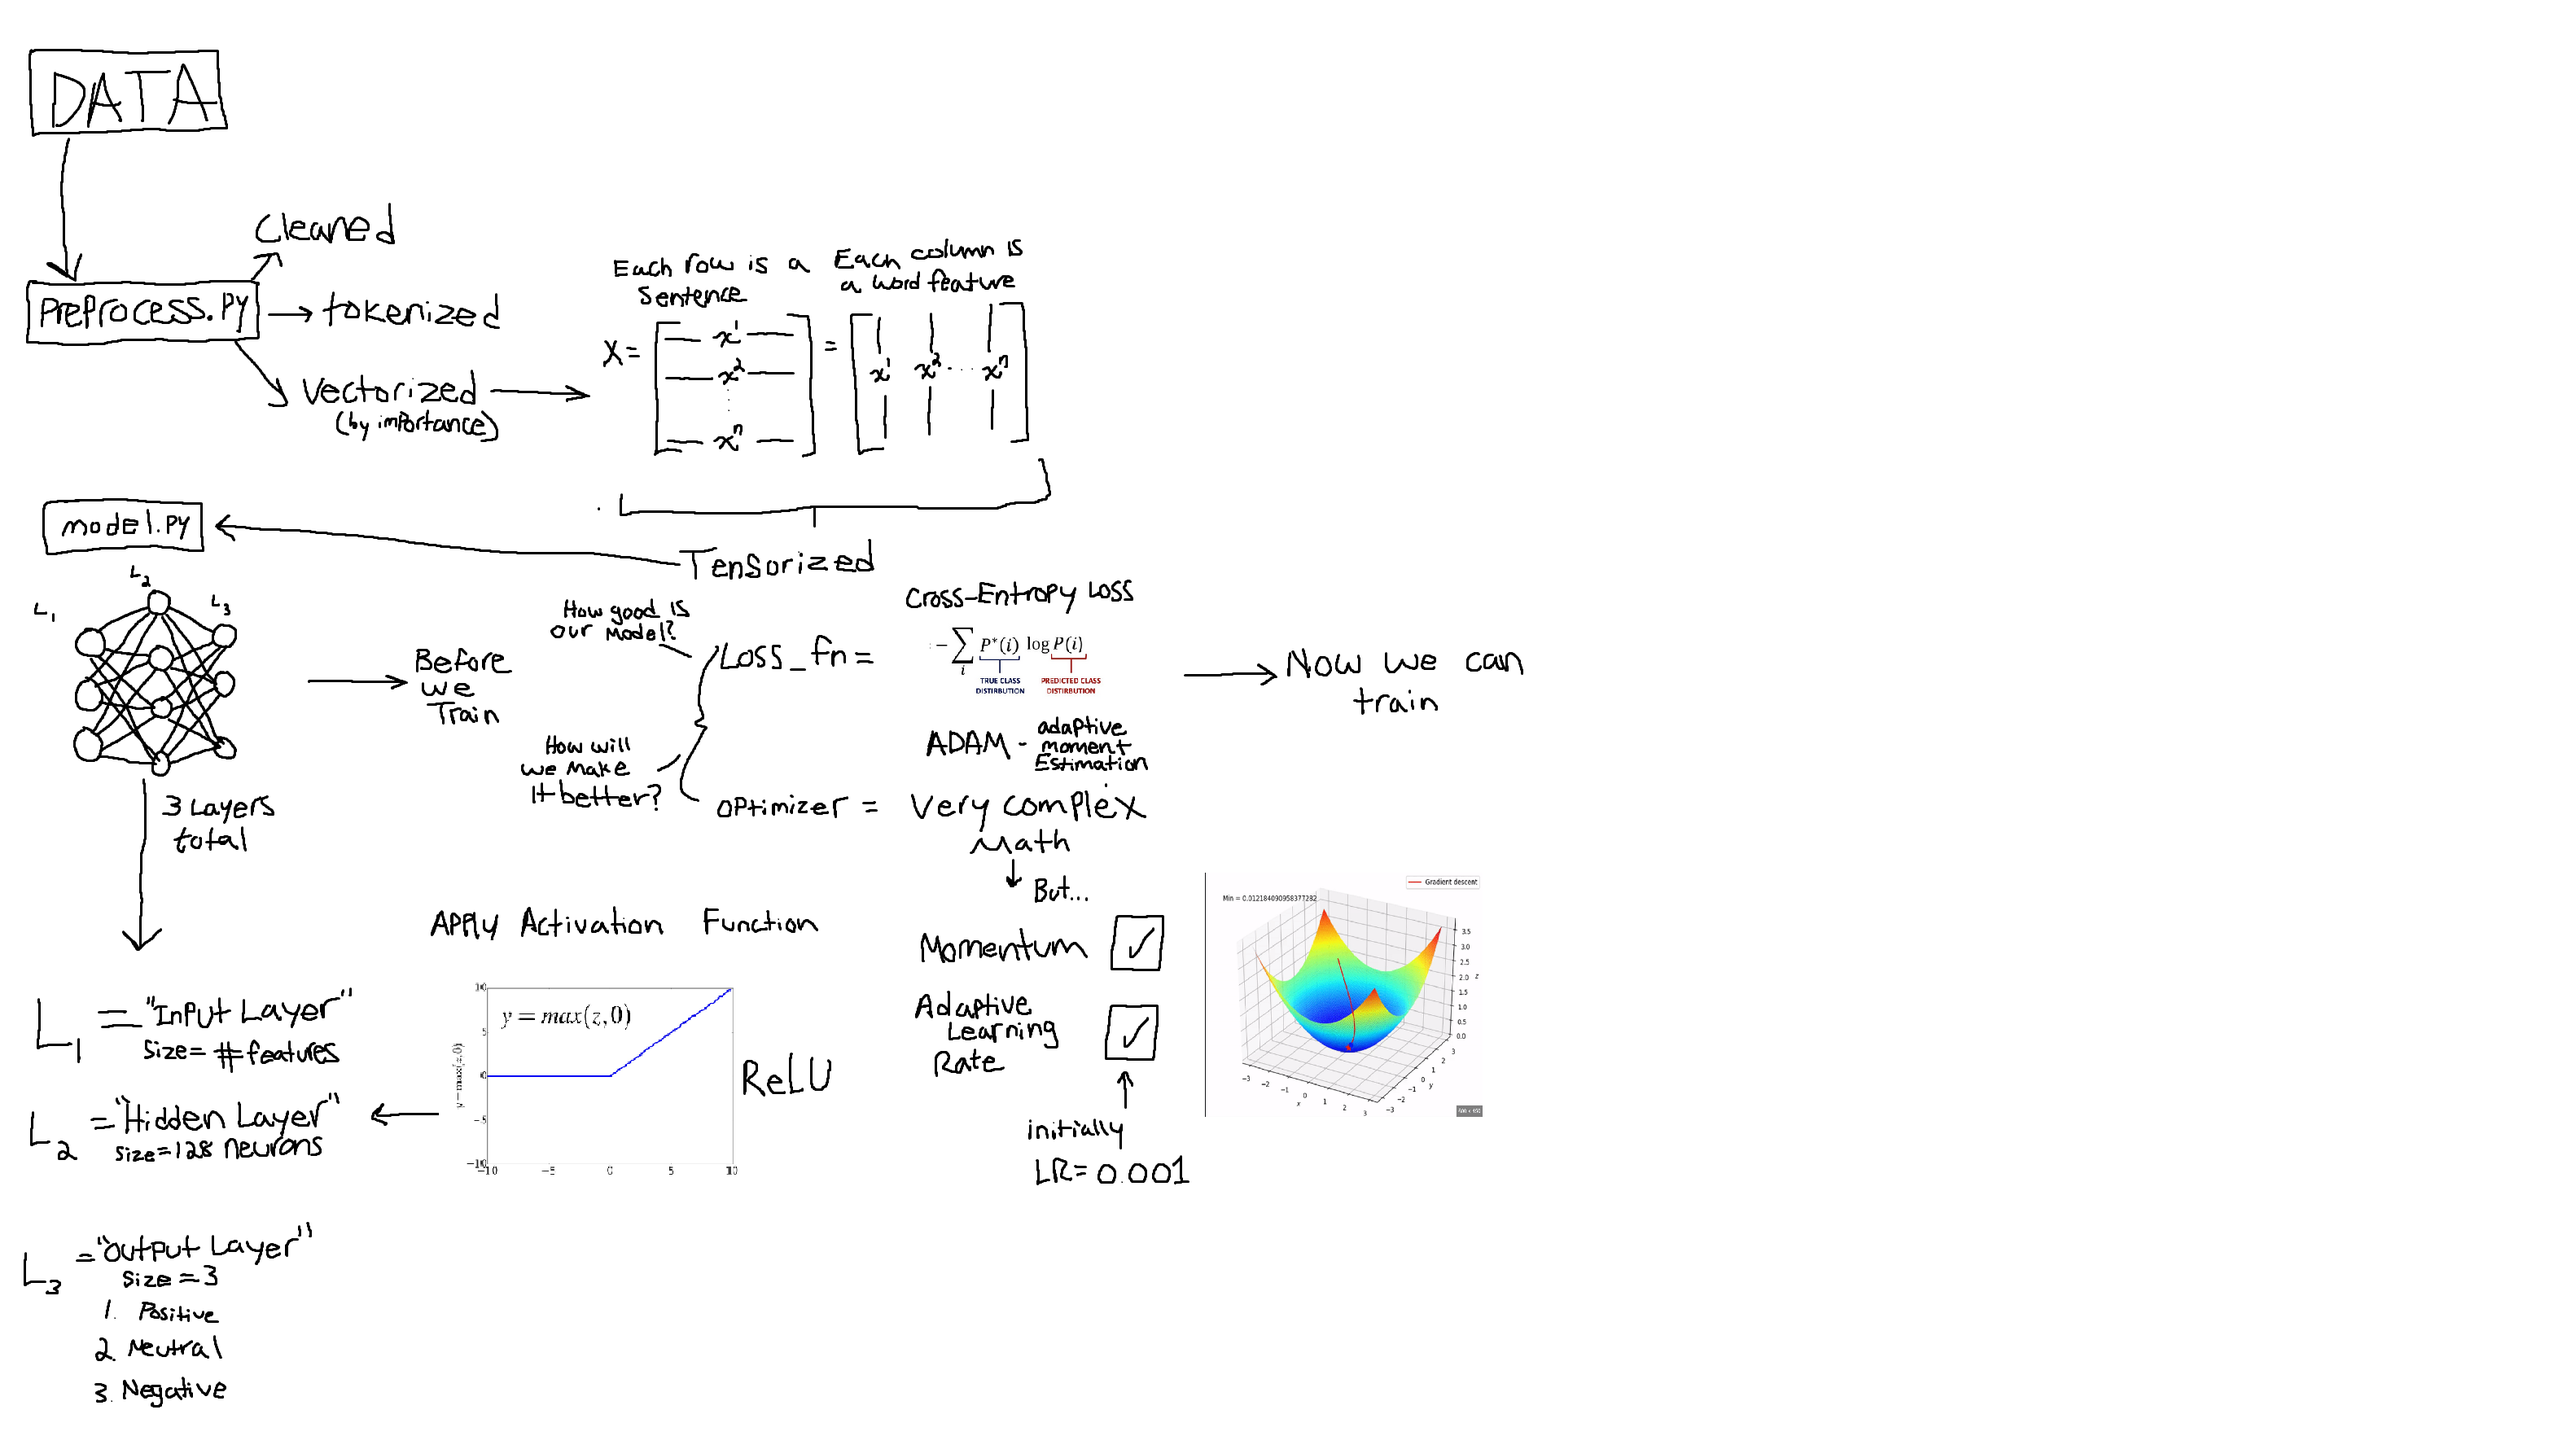
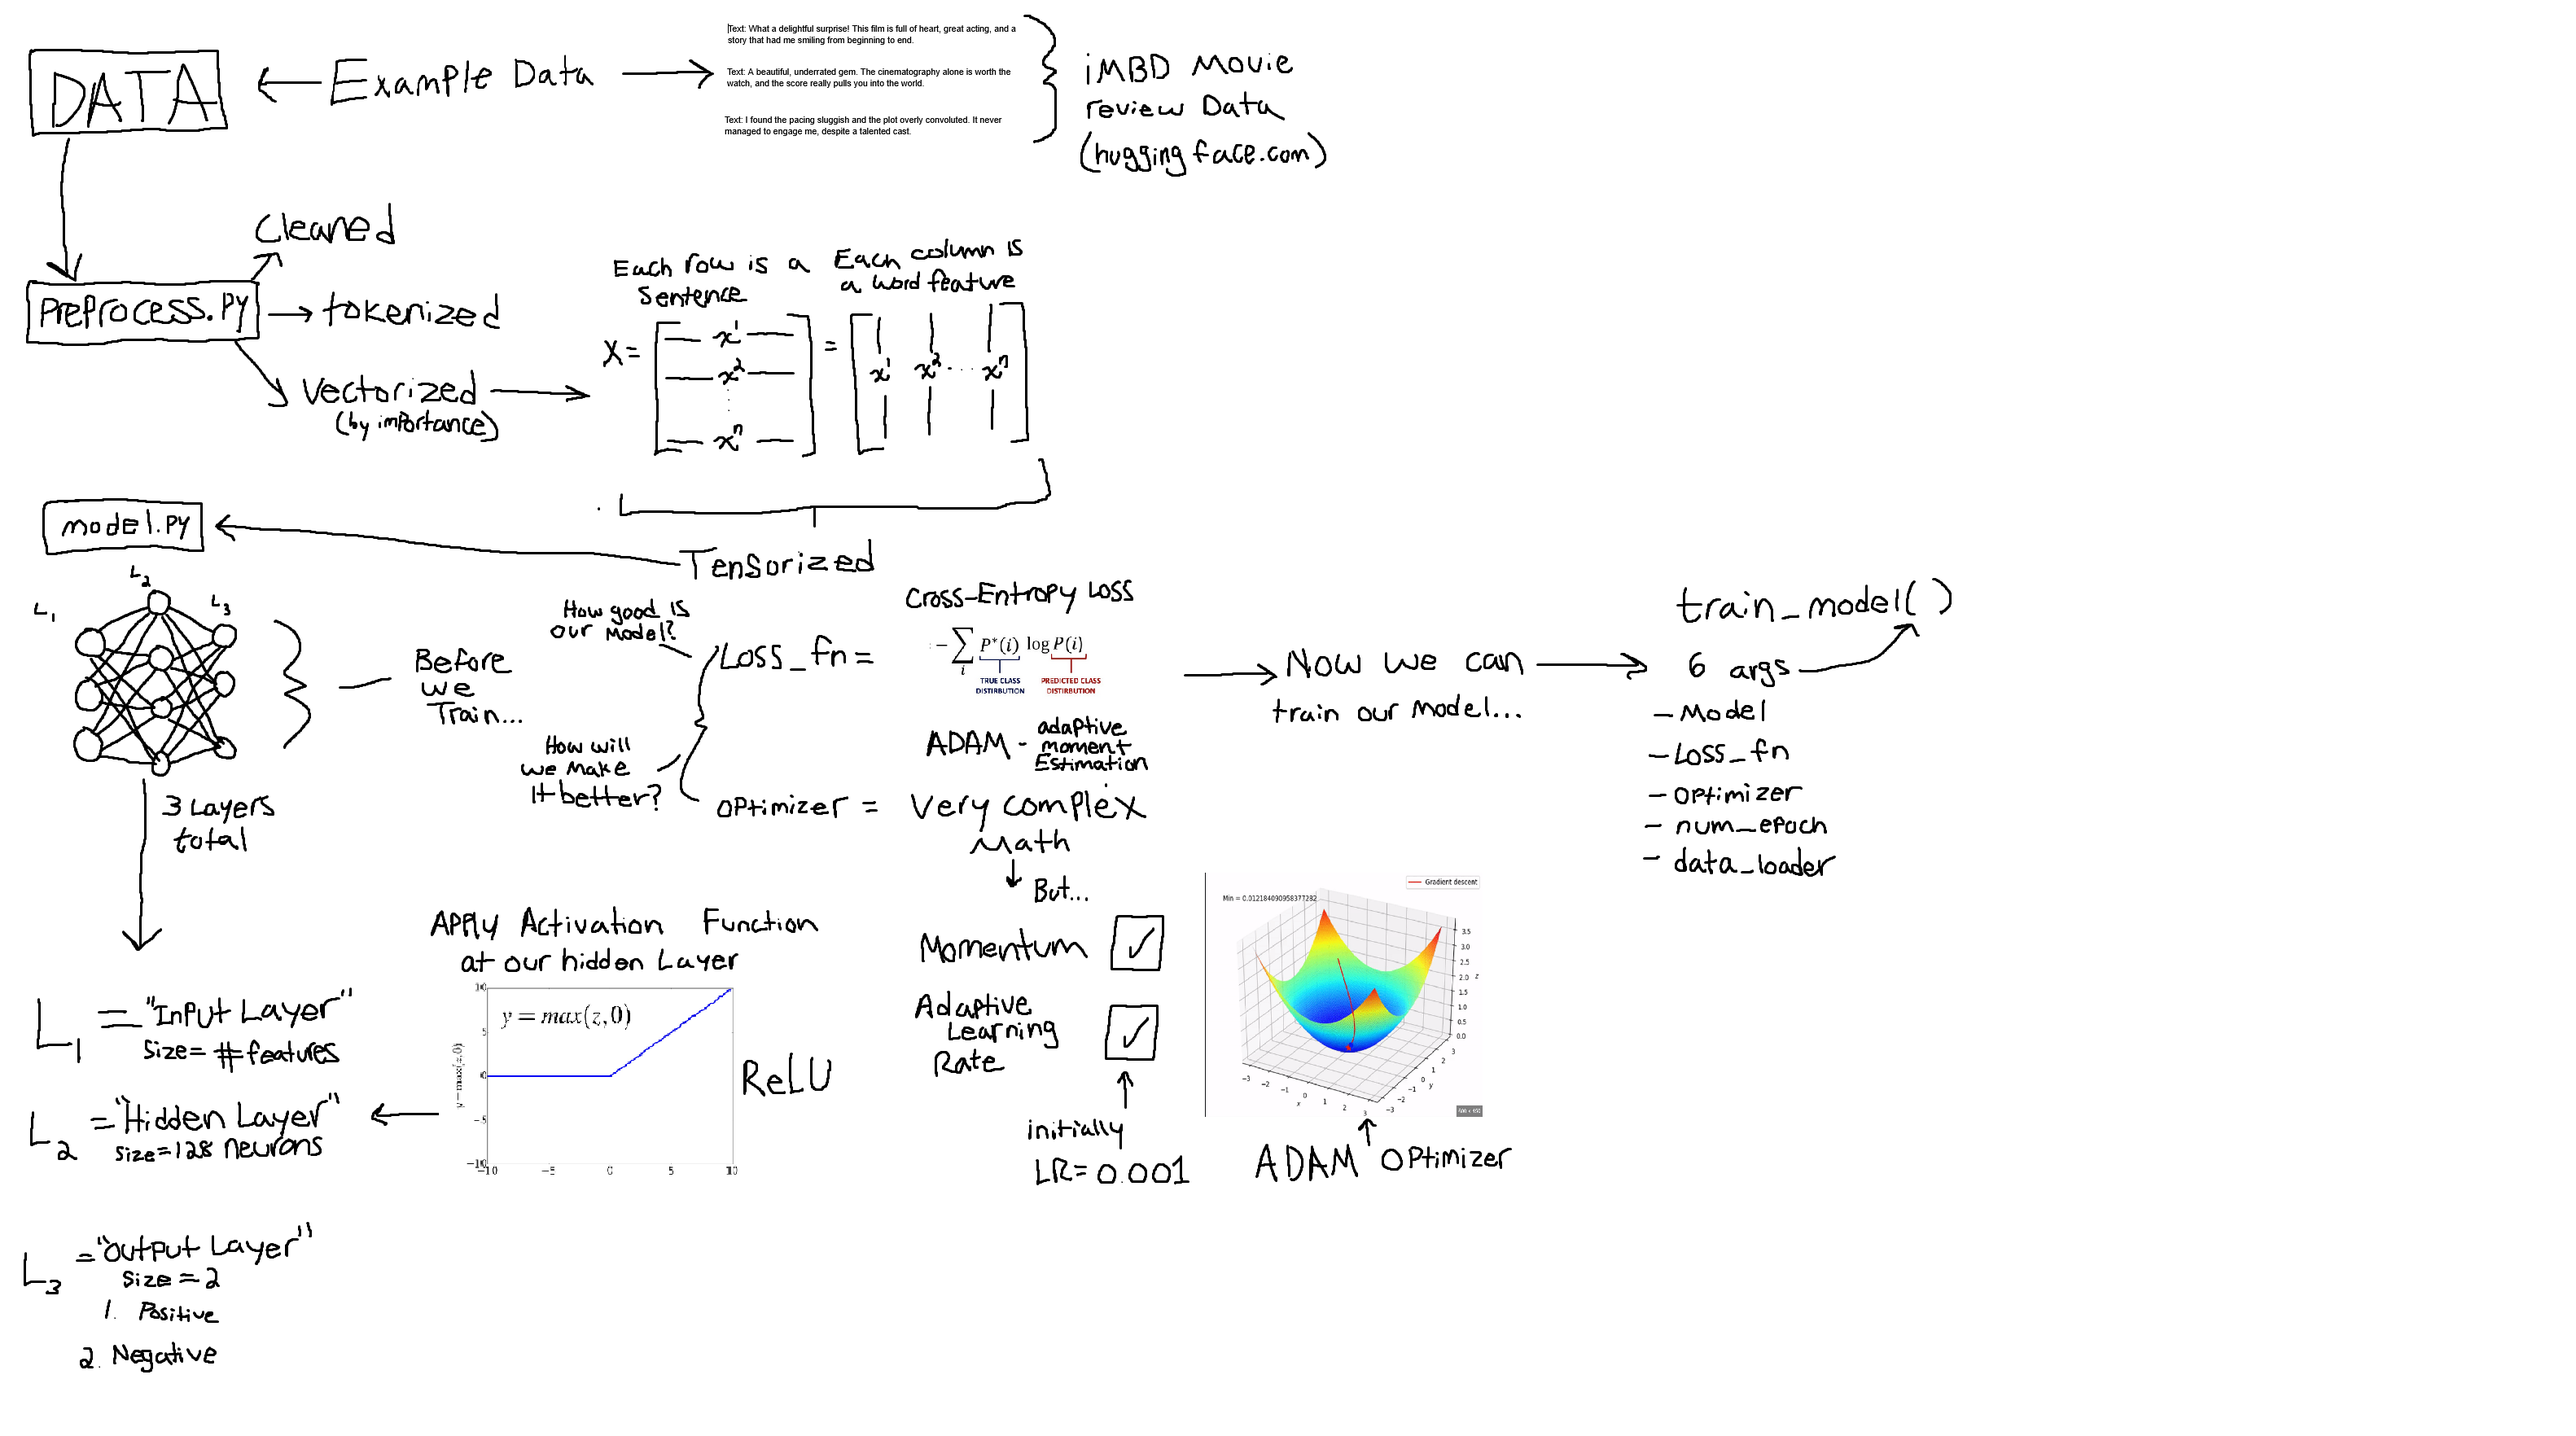
finalized non-training output. this is a semi-presentable product and works moderatly well.

diff --git a/main.py b/main.py
@@ -4,7 +4,7 @@ from torch.utils.data import DataLoader, TensorDataset
 from models.model import initialize_model, train_model
 from utils.preprocess import load_and_preprocess_imdb
 from utils.predict import predict_sentiment
-
+from datasets import load_dataset
 # 1) Load & preprocess IMDB data (features, labels, and vectorizer)
 X_train_np, y_train, X_test_np, y_test, vectorizer = load_and_preprocess_imdb(
     vectorizer_path="vectorizer.pkl"
@@ -18,7 +18,7 @@ y_test  = torch.tensor(y_test, dtype=torch.long)
 
 # 3) Create DataLoaders
 batch_size = 64
-train_loader = DataLoader(TensorDataset(X_train, y_train), batch_size=batch_size, shuffle=True)
+train_loader = DataLoader(TensorDataset(X_train, y_train), batch_size=batch_size, shuffle=True) #shuffle the training data to improve generalization
 test_loader  = DataLoader(TensorDataset(X_test,  y_test),   batch_size=batch_size, shuffle=False)
 
 # 4) Initialize and train the model
@@ -29,13 +29,47 @@ model, loss_fn, optimizer = initialize_model(input_size, hidden_size, output_siz
 train_model(model, loss_fn, optimizer, train_loader, num_epochs=25)
 
 # 5) Evaluate on the test split
+#model.eval()
+#test_loss, test_acc = train_model(
+#    model, loss_fn, optimizer,
+#    test_loader,
+#    evaluate=True
+#)
+#print(f"Test loss: {test_loss:.3f} | acc: {test_acc:.2f}%")
+
+imdb       = load_dataset("imdb")
+test_texts = imdb["test"]["text"]
+
+device = next(model.parameters()).device
 model.eval()
-test_loss, test_acc = train_model(
-    model, loss_fn, optimizer,
-    test_loader,
-    evaluate=True
-)
-print(f"Test loss: {test_loss:.3f} | acc: {test_acc:.2f}%")
+
+from collections import Counter
+
+# prepare containers
+all_preds, all_labels = [], []
+
+# 3) Loop one example at a time
+with torch.no_grad():
+    for raw, x_vec, actual in zip(test_texts, X_test, y_test):
+        # a) move vector to device and add batch dimension
+        x = x_vec.unsqueeze(0).to(device)
+
+        # b) forward pass & pick top logit
+        logits = model(x)
+        pred   = logits.argmax(dim=1).item()
+
+        # collect for distribution check
+        all_preds.append(pred)
+        all_labels.append(actual.item())
+
+        # c) print everything
+        print(f"Text: {raw}")
+        print(f"→ Predicted: {pred}    |    Actual: {actual.item()}\n")
+
+# ─── now print the class distributions ──────────────────────────────────────────
+print("Predicted distribution:", Counter(all_preds))
+print("True label distribution:   ", Counter(all_labels))
+
 
 # 6) Save the trained model and vectorizer
 torch.save(model.state_dict(), "saved_model.pth")
